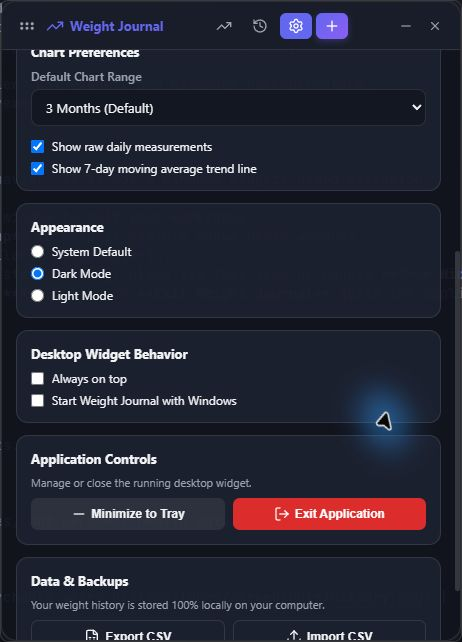
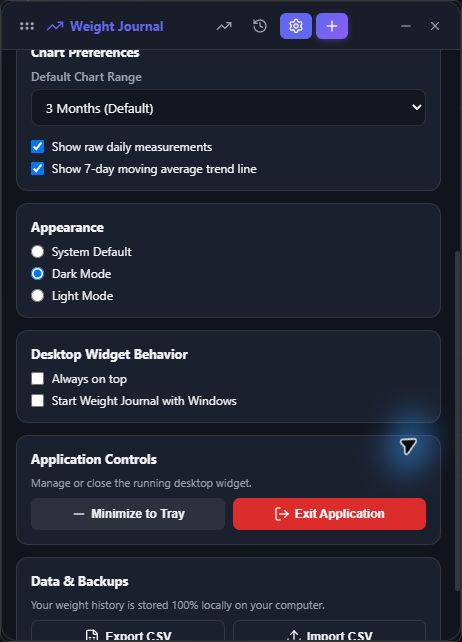
add screenshots

Changed region(s): [[0.7576, 0.5919, 0.9697, 0.7477]]

diff --git a/docs/screenshots/README.md b/docs/screenshots/README.md
@@ -6,7 +6,7 @@ To refresh them from the repository root:
 
 ```powershell
 python scripts/seed-screenshots.py
-npm run tauri build -- --no-bundle
+npm run tauri build -- --no-bundle --config scripts/screenshot.tauri.conf.json
 $env:WEIGHT_JOURNAL_DATA_DIR = Join-Path $PWD '.local/screenshot-data'
 & '.\src-tauri\target\release\weight-journal.exe'
 Remove-Item Env:WEIGHT_JOURNAL_DATA_DIR
@@ -17,3 +17,6 @@ Python 3 is needed only for the sample-data helper. It refuses to overwrite an e
 Capture only the app window. Use the default 460 × 640 logical-pixel window size, choose Dark Mode for `chart-dark.png`, `history.png`, and `widget-settings.png`, and Light Mode for `chart-light.png`. Switch views and themes through the app. For widget settings, scroll to show Appearance and Desktop Widget Behavior. Screenshots may be larger in physical pixels because of Windows display scaling.
 
 The data directory override applies only to the launched process and keeps this workflow separate from the default journal.
+
+The screenshot configuration makes the native window opaque over a neutral dark background so desktop content cannot bleed through the translucent interface. It does not change the normal application configuration. After capturing, run `npm run tauri build` to restore the normal transparent release executable and installers.
+
